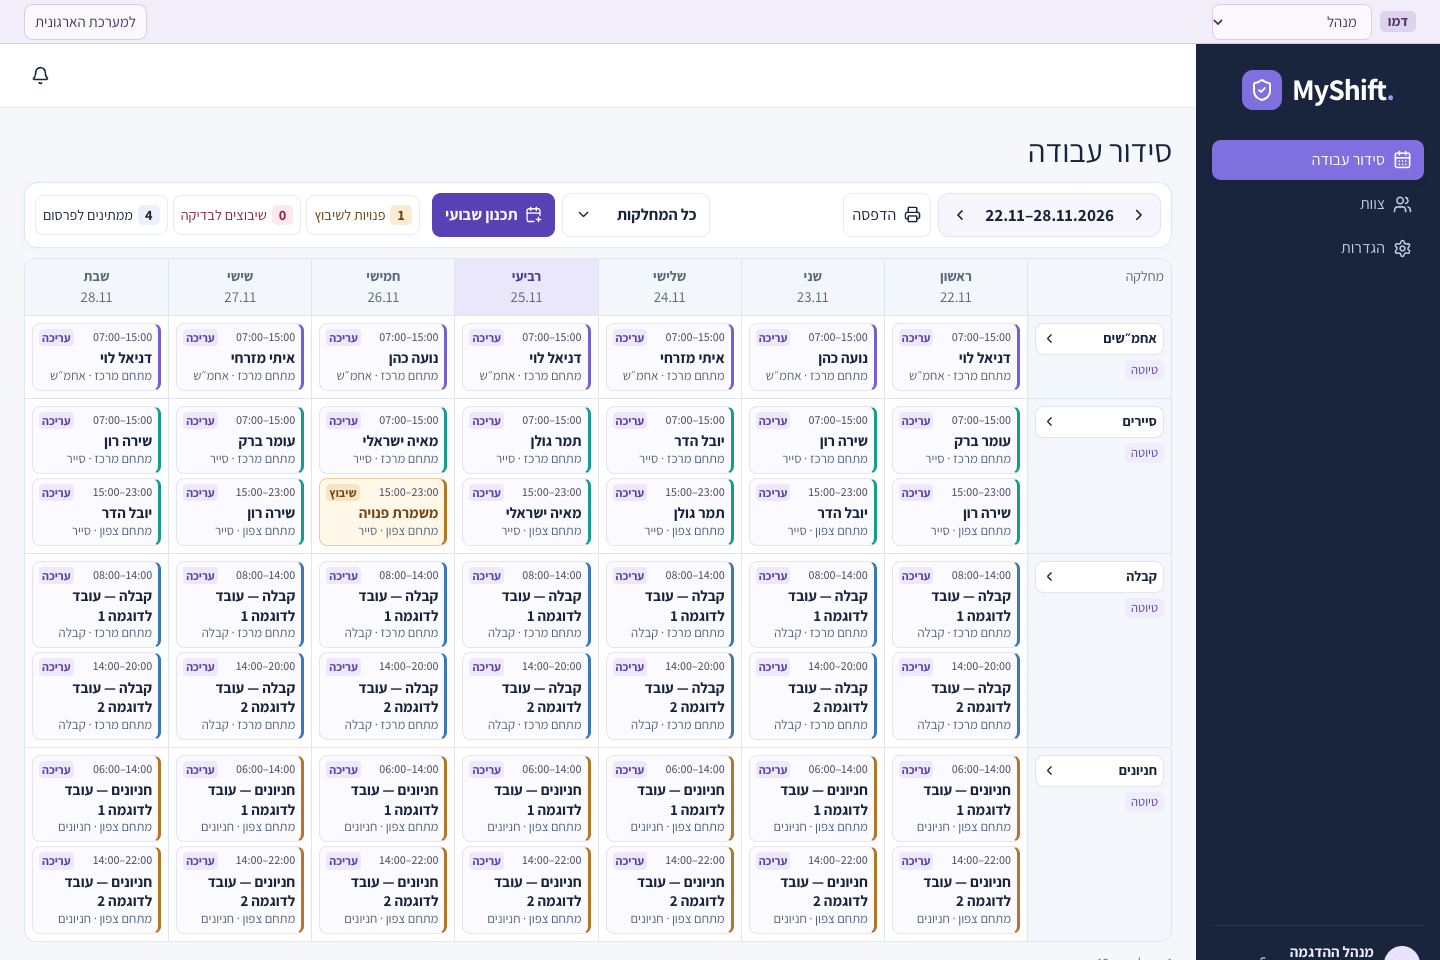
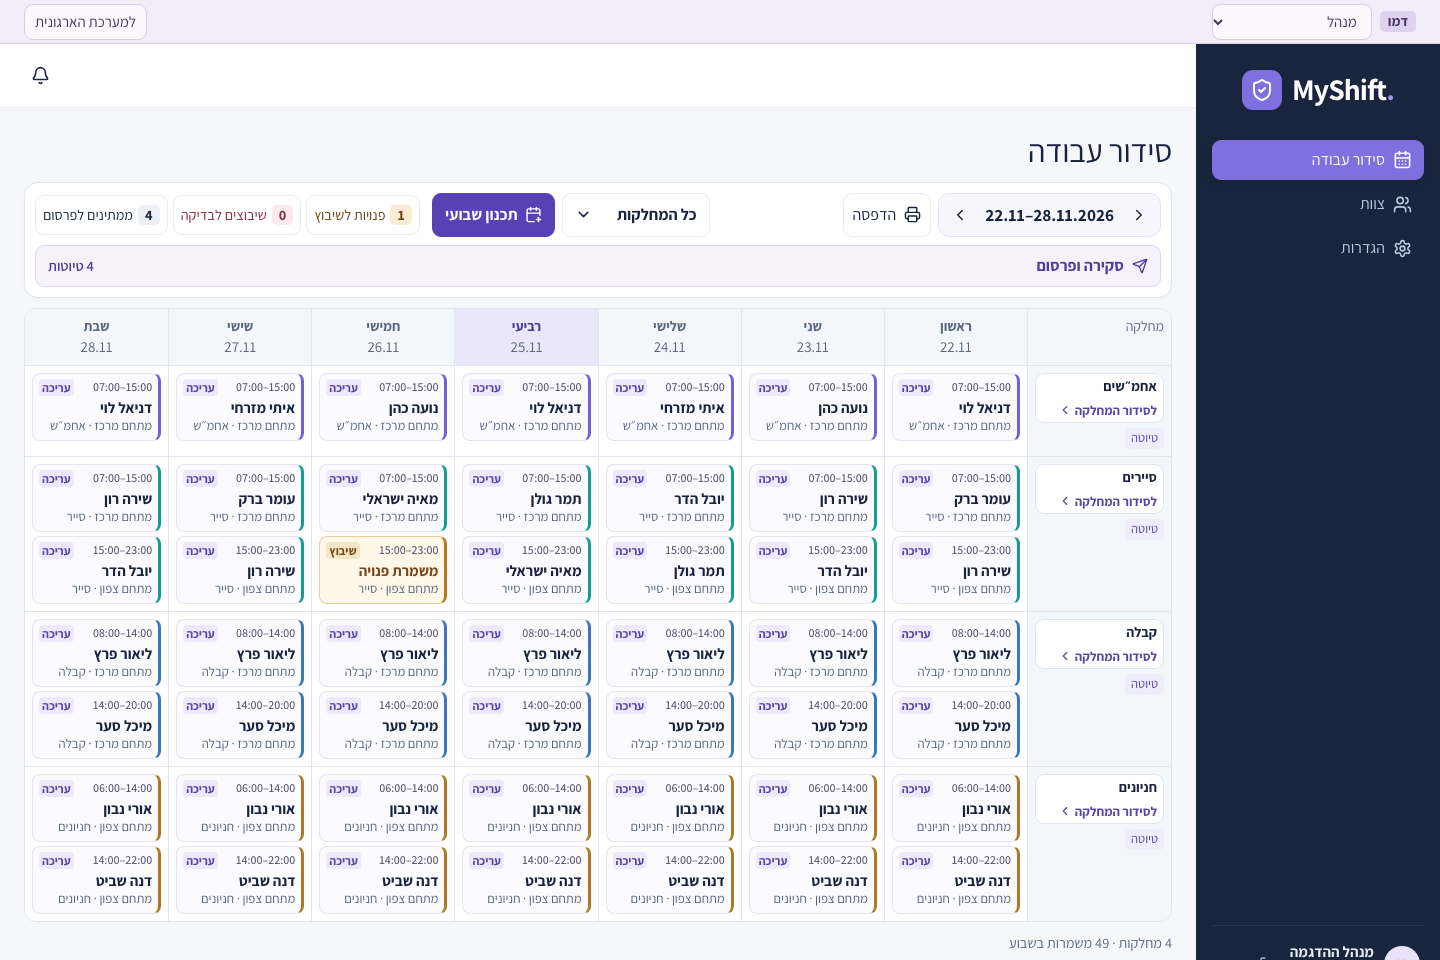
Document weekly release and refresh mobile screenshots

diff --git a/README.md b/README.md
@@ -36,10 +36,10 @@ npm run dev
 
 1. היכנסו לדמו ובחרו **מנהל** בפס הדמו בראש הדף. במסך **סידור עבודה** אפשר לעבור שבוע, לסנן לפי מחלקה או לראות רק משמרות פנויות ושיבוצים שדורשים בדיקה. בטלפון בוחרים גם יום.
 2. לחצו **פנויות לשיבוץ**, פתחו את המשמרת הפנויה בסיירים ובחרו עובד זמין. לחצו **שמירה**. אפשר לבטל את הפעולה האחרונה מההודעה שמופיעה אחרי השמירה.
-3. לחצו **תכנון שבועי** בלוח ובחרו מחלקה כדי לראות הצעה להוספת משמרות ולמילוי משמרות פנויות לשבוע הנבחר. השיבוץ מתחשב בזמינות, בהכשרות ובחפיפות. לחצו **אישור ושמירה כטיוטה** כדי להחיל את ההצעה. השיבוצים הקיימים נשמרים ופרסום לעובדים מתבצע בנפרד.
-4. לחצו **פרסום סידור** כשהטיוטה מוכנה. כדי לשנות סידור שפורסם, לחצו **פתיחה לעריכה**, ערכו את המשמרות ופרסמו מחדש.
+3. לחצו **תכנון שבועי** בלוח. ברירת המחדל היא כל המחלקות שבניהולכם, ואפשר לבחור מחלקה אחת. פתחו מחלקה כדי לראות משמרות חדשות בירוק ומילוי משמרות פנויות בכחול. **אישור ושמירה כטיוטה** מחיל את ההצעה יחד על המחלקות שמופיעות בסקירה ומשמר את השיבוצים הקיימים.
+4. לחצו **סקירה ופרסום** בלוח כשמוכנים לפרסם. עברו על ההבדלים מול הפרסום הקודם, סמנו את המחלקות הרצויות ואשרו. בפתיחה לעריכה, העובדים ממשיכים לראות את הסידור האחרון שפורסם עד שתפרסמו את העדכון.
 
-לחצו על שם מחלקה בלוח כדי להוסיף לה משמרת ידנית או לנהל את הטיוטה שלה. **חזרה לכל המחלקות** מחזירה ליום, לסינון ולמיקום הקודם בלוח. תאריך, שעות, אתר ותפקיד נמצאים תחת **פרטי משמרת** בעורך. פעולות שכפול ומחיקה נמצאות לצד השמירה. תפריט **עוד** בסידור המחלקה כולל העתקה, שחזור, ייבוא CSV או XLSX וייצוא Excel. בלוח הראשי אפשר להדפיס את השבוע או לשמור אותו כ־PDF ישירות מכפתור ההדפסה.
+לחצו **לסידור המחלקה** בלוח כדי להוסיף משמרת ידנית או לנהל את הטיוטה. **חזרה לכל המחלקות** מחזירה ליום, לסינון ולמיקום הקודם בלוח. בעורך המשמרת אפשר להחליף עובד או לבחור יום ותבנית שעות תחת **פרטי משמרת**. **יצירת משמרת דומה** פותחת טופס חדש עם אותם שעות, אתר ותפקיד וללא עובד. תפריט **עוד** בסידור המחלקה כולל העתקה, שחזור, ייבוא CSV או XLSX וייצוא Excel. בלוח הראשי אפשר להדפיס את השבוע או לשמור אותו כ־PDF ישירות מכפתור ההדפסה.
 
 ### צפייה כעובד וניהול צוות
 
@@ -56,7 +56,7 @@ npm run dev
 | :---: | :---: | :---: |
 | <img src="docs/screenshots/roster-mobile.png" alt="לוח שבועי בטלפון עם בחירת יום ומחלקה" width="240"> | <img src="docs/screenshots/shift-editor-mobile.png" alt="עורך משמרת עם בחירת עובד ושמירה" width="240"> | <img src="docs/screenshots/employee-mobile.png" alt="סידור אישי שפורסם לעובד בדמו" width="240"> |
 
-[סידור מחלקה בטלפון](docs/screenshots/department-mobile.png) · [צוות בטלפון](docs/screenshots/team-mobile.png) · [הגדרות בטלפון](docs/screenshots/settings-mobile.png) · [תלושים ותזכורות](docs/screenshots/team-desk.png) · [דף הפתיחה במחשב](docs/screenshots/home-schedule-desktop.png) · [דף הפתיחה בטלפון](docs/screenshots/home-schedule-mobile.png)
+[תכנון שבועי בטלפון](docs/screenshots/weekly-plan-mobile.png) · [סקירה ופרסום בטלפון](docs/screenshots/publication-review-mobile.png) · [סידור מחלקה בטלפון](docs/screenshots/department-mobile.png) · [שעות מותאמות](docs/screenshots/custom-hours-mobile.png) · [צוות בטלפון](docs/screenshots/team-mobile.png) · [הגדרות בטלפון](docs/screenshots/settings-mobile.png) · [תלושים ותזכורות](docs/screenshots/team-desk.png) · [דף הפתיחה במחשב](docs/screenshots/home-schedule-desktop.png) · [דף הפתיחה בטלפון](docs/screenshots/home-schedule-mobile.png)
 
 ### משמרות בשבוע הראשון בדמו
 
@@ -76,7 +76,7 @@ pie showData
 ## חיבור ארגון ל־Supabase
 
 1. העתיקו את [קובץ ההגדרות לדוגמה](.env.example) באמצעות `cp .env.example .env.local`. הגדירו את `NEXT_PUBLIC_SUPABASE_URL` ואת `NEXT_PUBLIC_SUPABASE_ANON_KEY` עם כתובת הפרויקט והמפתח הציבורי שלו.
-2. הריצו את [המיגרציות](supabase/migrations) לפי הסדר, מ־001 עד 009. אפשר להוסיף את [נתוני ההתחלה](supabase/seed.sql) אם נדרשות מחלקות ותבניות לדוגמה.
+2. הריצו את [המיגרציות](supabase/migrations) לפי הסדר, מ־001 עד 010, לפני פריסת גרסת האפליקציה המחוברת למסד. אפשר להוסיף את [נתוני ההתחלה](supabase/seed.sql) אם נדרשות מחלקות ותבניות לדוגמה.
 3. צרו משתמש ב־Supabase Auth והגדירו אותו כמנהל ראשי ב־SQL Editor. החליפו את הערך ב־UUID של המשתמש שיצרתם.
 
    ```sql
